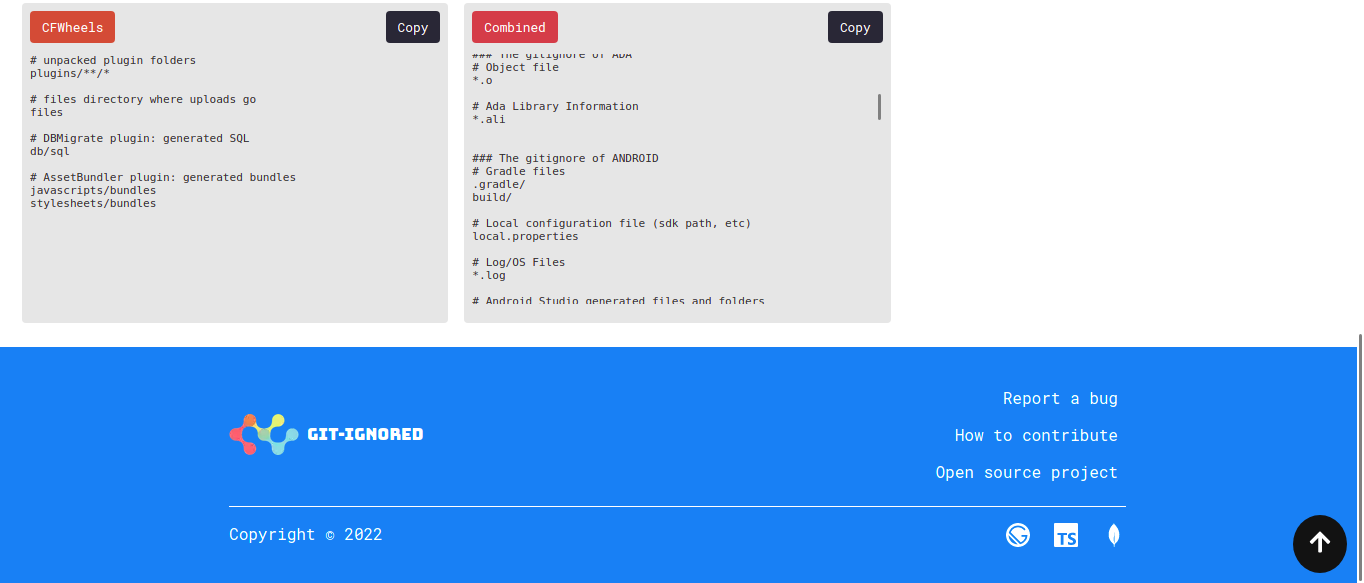
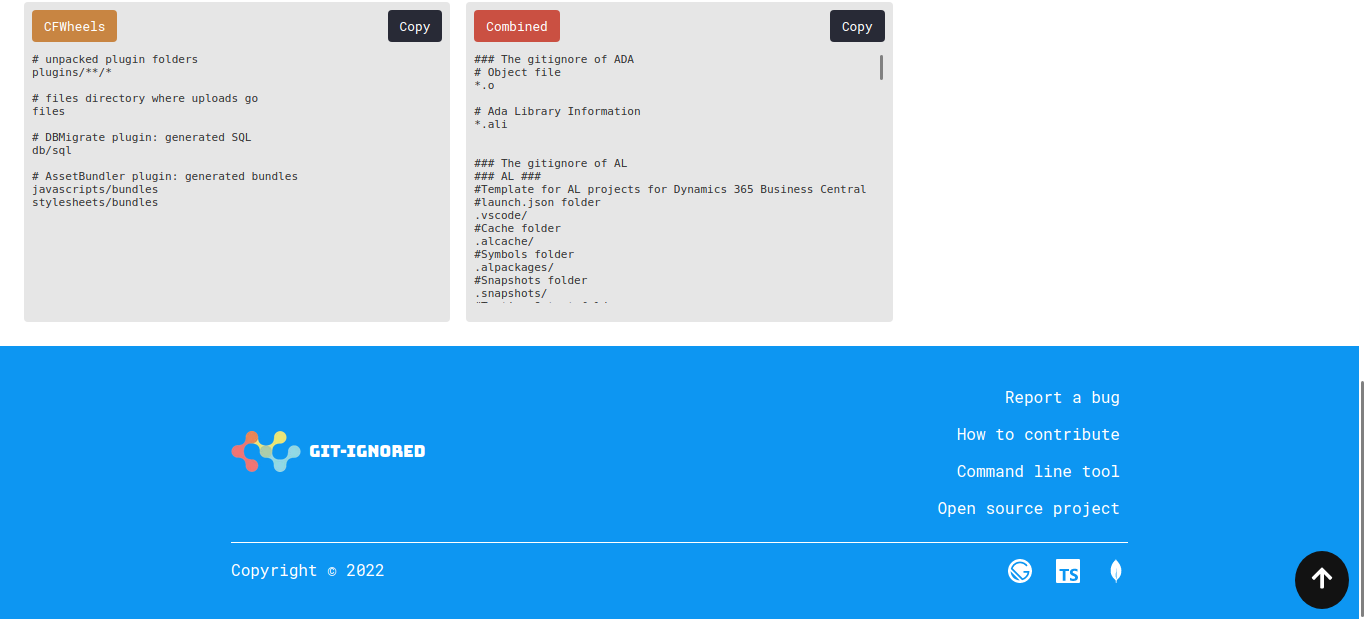
feat(cli): promote cli application (#24)

diff --git a/src/components/footer/upper/ExternaLinks.tsx b/src/components/footer/upper/ExternaLinks.tsx
@@ -1,6 +1,6 @@
 import * as React from 'react';
 import styled from 'styled-components';
-import { repo } from '../../../util/component-logic/const';
+import { constants } from '../../../util/component-logic/const';
 
 const ExternalLinks = () => (
     <Container>
@@ -8,21 +8,25 @@ const ExternalLinks = () => (
             [
                 {
                     section: 'Report a bug',
-                    to: '/issues',
+                    link: `${constants.repo}/issues`,
                 },
                 {
                     section: 'How to contribute',
-                    to: '#contribution',
+                    link: `${constants.repo}#contribution`,
+                },
+                {
+                    section: 'Command line tool',
+                    link: constants.cargo,
                 },
                 {
                     section: 'Open source project',
-                    to: undefined,
+                    link: constants.repo,
                 },
             ] as const
-        ).map(({ section, to }) => (
+        ).map(({ section, link }) => (
             <a
                 key={section}
-                href={`${repo}${to ?? ''}`}
+                href={link}
                 target="_blank"
                 rel="external nofollow noopener noreferrer"
             >

diff --git a/src/components/body/Cli.tsx b/src/components/body/Cli.tsx
@@ -1,0 +1,28 @@
+import * as React from 'react';
+import styled from 'styled-components';
+import { constants } from '../../util/component-logic/const';
+
+const Cli = () => (
+    <Container>
+        <Link
+            target="_blank"
+            rel="external nofollow noopener noreferrer"
+            href={constants.cargo}
+        >
+            Command Line Tool
+        </Link>
+    </Container>
+);
+
+const Link = styled.a`
+    font-size: 1em;
+    text-decoration: none;
+    color: #204ecf;
+`;
+
+const Container = styled.div`
+    text-align: center;
+    padding: 0 0 24px 0;
+`;
+
+export default Cli;

diff --git a/src/components/body/Body.tsx b/src/components/body/Body.tsx
@@ -20,6 +20,7 @@ import Contents from './content';
 import { parseAsGitIgnoreTechs } from '../../util/component-logic/parser';
 import { api } from '../../util/component-logic/const';
 import axios from 'axios';
+import Cli from './Cli';
 
 type CombinedTechs = undefined | GitIgnoreSelectedTechs[0]['content'];
 
@@ -112,6 +113,7 @@ const Body = () => {
                     }))
                 }
             />
+            <Cli />
             <Menu
                 selectedIds={selectedIds}
                 selectedTechs={selectedTechs}

diff --git a/src/components/header/GitHub.tsx b/src/components/header/GitHub.tsx
@@ -1,12 +1,12 @@
 import * as React from 'react';
 import styled from 'styled-components';
 import { VscGithubInverted } from 'react-icons/vsc';
-import { repo } from '../../util/component-logic/const';
+import { constants } from '../../util/component-logic/const';
 
 const GitHubIcon = () => (
     <Container>
         <a
-            href={repo}
+            href={constants.repo}
             target="_blank"
             rel="external nofollow noopener noreferrer"
         >

diff --git a/src/util/component-logic/const.ts b/src/util/component-logic/const.ts
@@ -1,9 +1,11 @@
 const api = {
     gitIgnored: '/api/gitignored',
     generate: '/api/generate',
-    commitTime: '/api/committime',
 } as const;
 
-const repo = 'https://github.com/gervinfung/gitignored';
+const constants = {
+    repo: 'https://github.com/Gitignored-App/web',
+    cargo: 'https://crates.io/crates/gitignored-cli',
+} as const;
 
-export { api, repo };
+export { api, constants };
